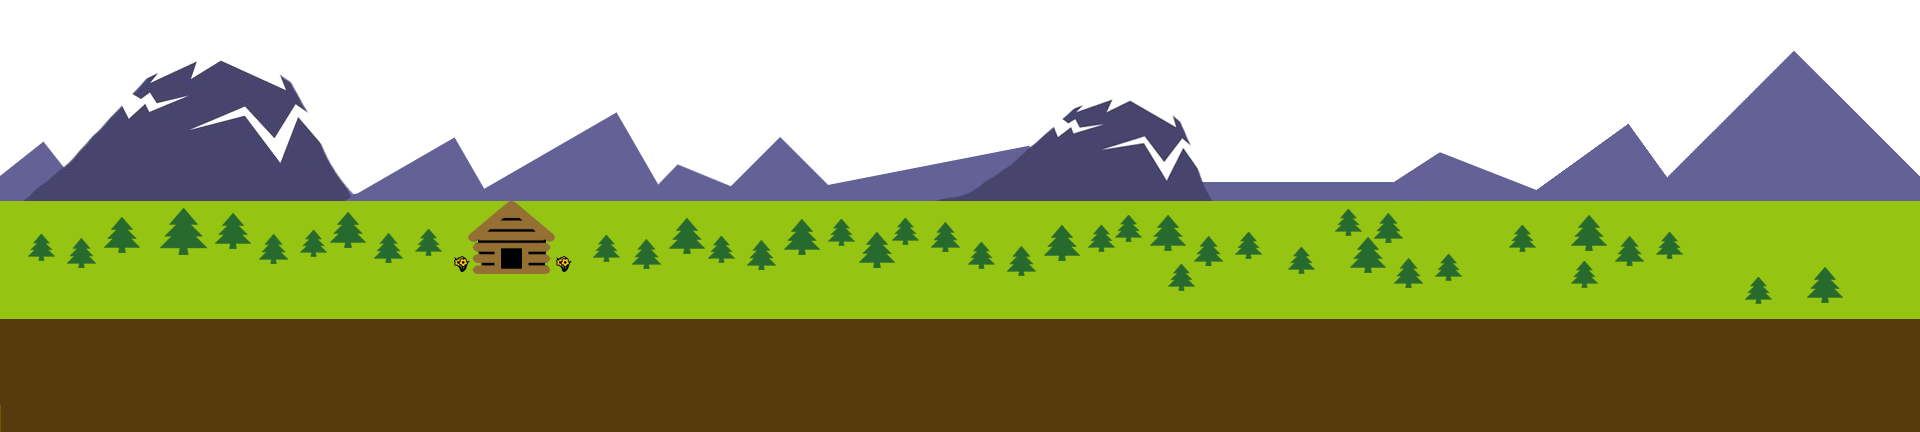
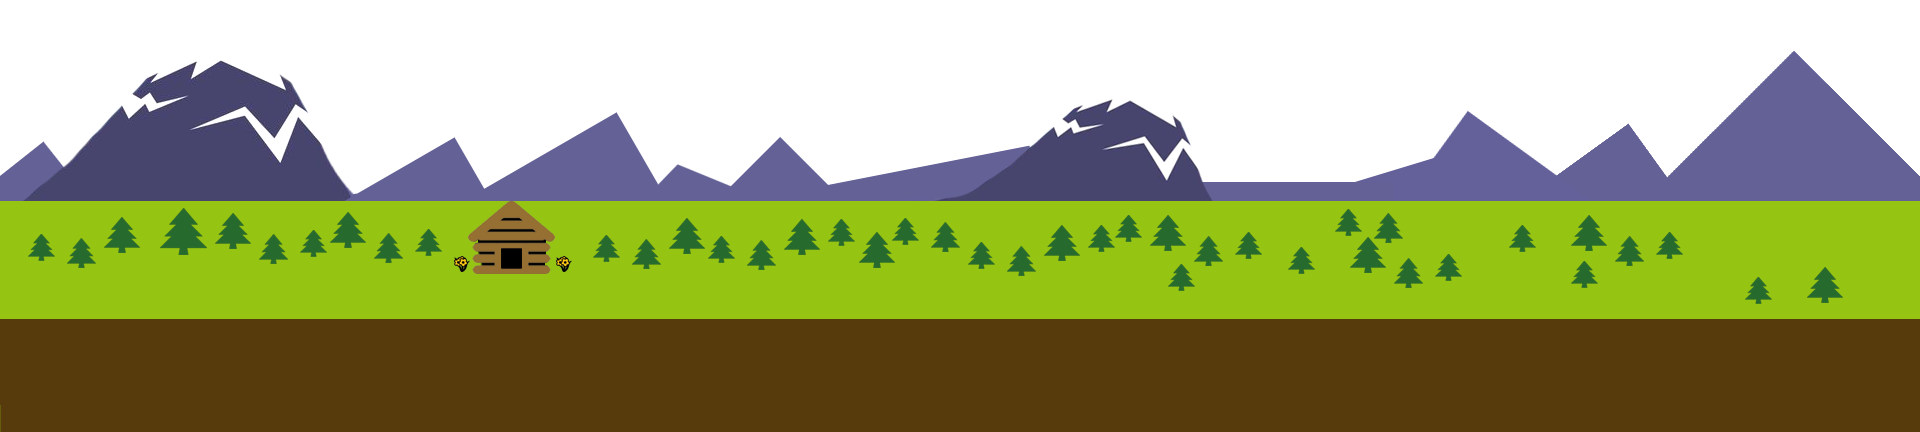
fixed mountain background and container resize issue

Changed region(s): [[0.6875, 0.2708, 0.8125, 0.4514]]

diff --git a/index.html b/index.html
@@ -10,6 +10,8 @@
 <meta name="keywords" content="Camp Kesem, Claremont, 5Cs, Colleges, Nonprofit, Fundraising, Cancer, Children" />
 <meta name="description" content="Camp Kesem at the Claremont Colleges recently finished it's 2nd ever camp. Read our newsletter for more information!">
 <meta name="author" content="Camp Kesem at the Claremont Colleges">
+<link rel="icon" type="image/jpeg" href="/assets/img/favicon.jpg" />
+
 
 <!-- Social Metas -->
 <meta property="og:title" content="Camp Kesem at the Claremont Colleges 2016-2017 Newsletter" />
@@ -99,8 +101,8 @@
                         <li class="nav-item active"><a class="nav-item-child" href="#home">Home</a></li>
                         <li class="nav-item"><a class="nav-item-child" href="#about">Our Story</a></li>
                         <li class="nav-item"><a class="nav-item-child" href="#portfolio">Fundraising</a></li>
-                        <li class="nav-item"><a class="nav-item-child" href="#history">Re-Camp</a></li>
-                        <li class="nav-item"><a class="nav-item-child" href="#team">Our Staff</a></li>
+                        <li class="nav-item"><a class="nav-item-child" href="#re-camp">Re-Camp</a></li>
+                        <li class="nav-item"><a class="nav-item-child" href="#staff">Our Staff</a></li>
                         <li class="nav-item"><a class="nav-item-child" href="#empowerment">Empowerment</a></li>
                         <li class="nav-item"><a class="nav-item-child" href="#blog">Donate</a></li>
                         <li class="nav-item"><a class="nav-item-child" href="#contact">Contact</a></li>
@@ -549,7 +551,7 @@
         <!-- END ABOUT -->
 
         <!-- HISTORY -->
-        <section id="history">
+        <section id="re-camp">
             <div class="bg-color-blue-sky">
                 <div class="cloud-push content-md container-sm">
                     <!-- Heading v1 -->
@@ -806,7 +808,7 @@
                     </div>
                     <!-- End Theme Portfolio -->
 
-                    <div class="white-boxed content-md container margin-top-50">
+                    <div id="staff" class="white-boxed content-md container margin-top-50">
                         <!-- Heading v1 -->
                         <div class="heading-v1 text-center margin-b-80">
                             <h2 class="heading-v1-title">Meet the Counselors!</h2>
@@ -814,7 +816,7 @@
                         </div>
                         <!-- End Heading v1 -->
 
-                        <div id="i-banner-v2" class="carousel slide carousel-fade margin-bottom-30" data-ride="carousel">
+                        <div id="" class="carousel slide carousel-fade margin-bottom-30" data-ride="carousel">
                             <!-- Wrapper for slides -->
                             <div class="col-md-5 sm-margin-b-30">
                                 <!-- Heading v1 -->

diff --git a/assets/css/kesem.css b/assets/css/kesem.css
@@ -274,7 +274,7 @@ section {
     z-index: 1;
 }
 
-#history:before {
+#re-camp:before {
     background: url('../img/cloud-cover.png') 0 0;
     background-size: 1920px 288px;
     content: "";
@@ -285,7 +285,7 @@ section {
     top: 0px;
 }
 
-#history:after {
+#re-camp:after {
     background: url('../img/day-ground.png') 0 0;
     background-size: 1920px 432px;
     content: "";
@@ -383,7 +383,7 @@ section {
 
 .bg-color-starry-night {
     background: url('../img/starry-night.jpg');
-    background-repeat: repeat-y;
+    background-repeat: repeat;
     padding-bottom: 368px;
 }
 

diff --git a/assets/css/global.css b/assets/css/global.css
@@ -40622,7 +40622,7 @@ fieldset[disabled] .btn-ig-bg {
 /* Media Queries below 1200px */
 @media (min-width: 1200px) {
   .container-sm {
-    width: 970px;
+    width: 950px;
   }
 }
 
